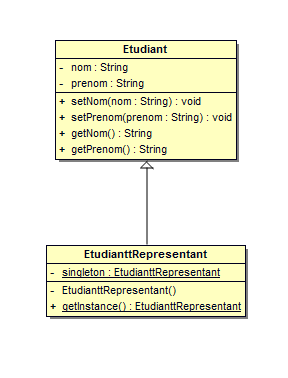
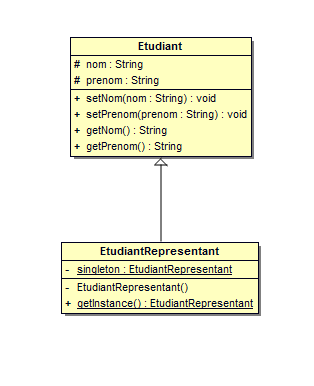
Exo 1 partie A :  Corrections mineures dans la classe et le diagramme

Changed region(s): [[0.1562, 0.0873, 0.875, 0.8439]]

diff --git a/src/exo1_A/Etudiant.java b/src/exo1_A/Etudiant.java
@@ -1,8 +1,8 @@
 package exo1_A;
 
 public class Etudiant {
-	private String nom;
-	private String prenom;
+	protected String nom;
+	protected String prenom;
 
 	public void setNom(String nom) {
 		this.nom = nom;
